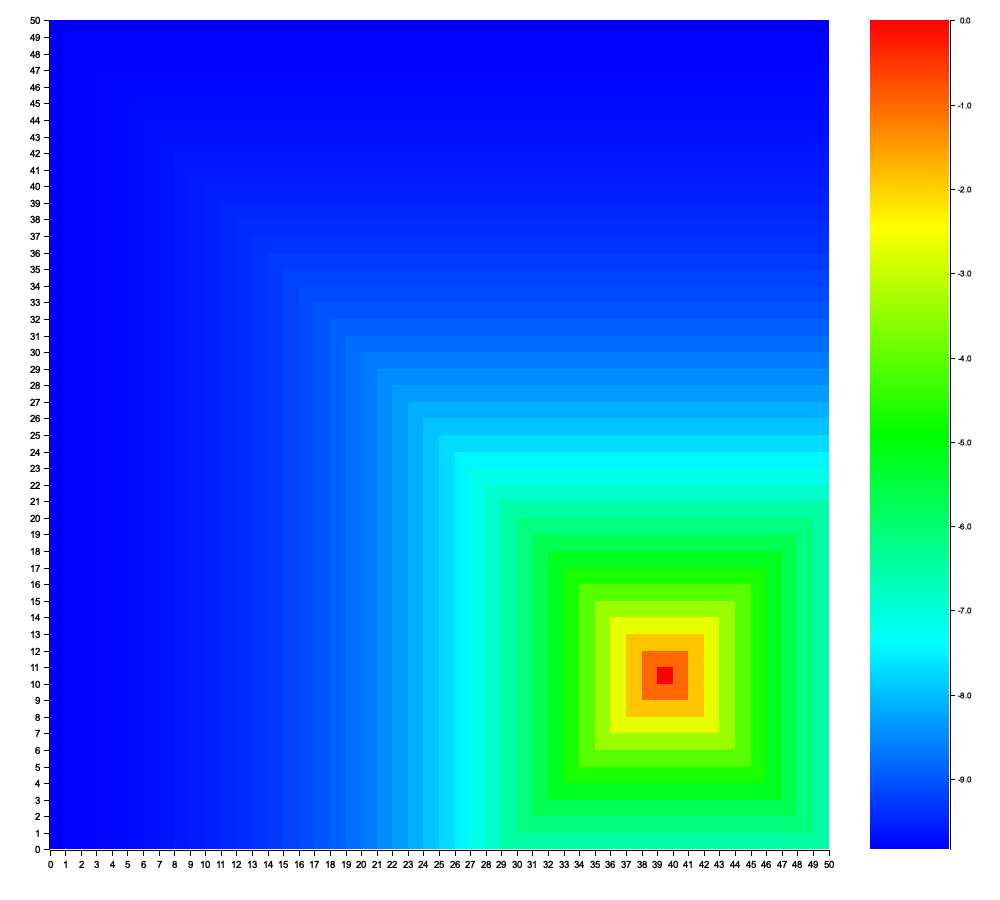
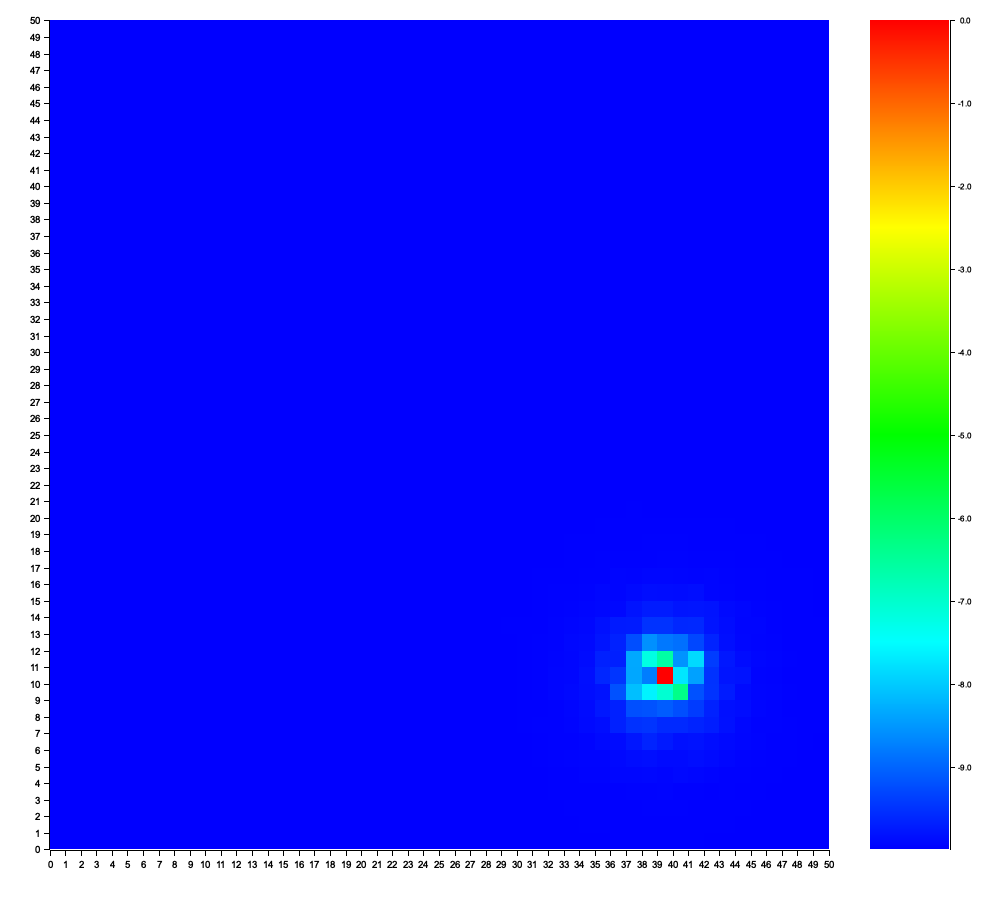
add: ランダムサンプリングを追加

diff --git a/src/main.rs b/src/main.rs
@@ -1,4 +1,5 @@
 use ndarray::{s, Array2, Array3};
+use rand::Rng;
 use std::f64::consts::PI;
 mod plot;
 use plot::plot_heatmap;
@@ -8,6 +9,7 @@ const THETA: f64 = 1e-6; // 収束のしきい値
 const SIZE: usize = 50; // グリッドサイズ
 const T_SIZE: usize = 8; // 角度の離散化数
 const MAX_ITER: usize = 1000; // 価値反復の最大回数
+const NUM_SAMPLES: usize = 10; // ランダムサンプリングの回数
 
 // アクションを表す構造体
 #[derive(Clone)]
@@ -106,10 +108,14 @@ fn compute_value(
     j: usize,
     k: usize,
 ) -> f64 {
-    let mut max_value = f64::NEG_INFINITY;
+    let mut rng = rand::thread_rng();
+    let mut total_value = 0.0;
+    let mut valid_samples = 0;
 
-    // 各アクションに対して価値を計算
-    for action in actions {
+    // ランダムにNUM_SAMPLES回サンプリング
+    for _ in 0..NUM_SAMPLES {
+        let action_index = rng.gen_range(0..actions.len());
+        let action = &actions[action_index];
         let angle = k as f64 * 2.0 * PI / T_SIZE as f64;
         let ni = (i as isize
             + (action.delta_x * angle.cos() - action.delta_y * angle.sin()).round() as isize)
@@ -124,15 +130,12 @@ fn compute_value(
 
         // 範囲外チェック
         if ni >= SIZE || nj >= SIZE {
-            continue;
+            total_value += rewards[(i, j)] + GAMMA * values[(i, j, k)];
+        } else {
+            total_value += rewards[(i, j)] + GAMMA * values[(ni, nj, nk)];
         }
-
-        // 価値を計算
-        let value = rewards[(i, j)] + GAMMA * values[(ni, nj, nk)];
-        if value > max_value {
-            max_value = value;
-        }
+        valid_samples += 1;
     }
 
-    max_value
+    total_value / valid_samples as f64
 }
